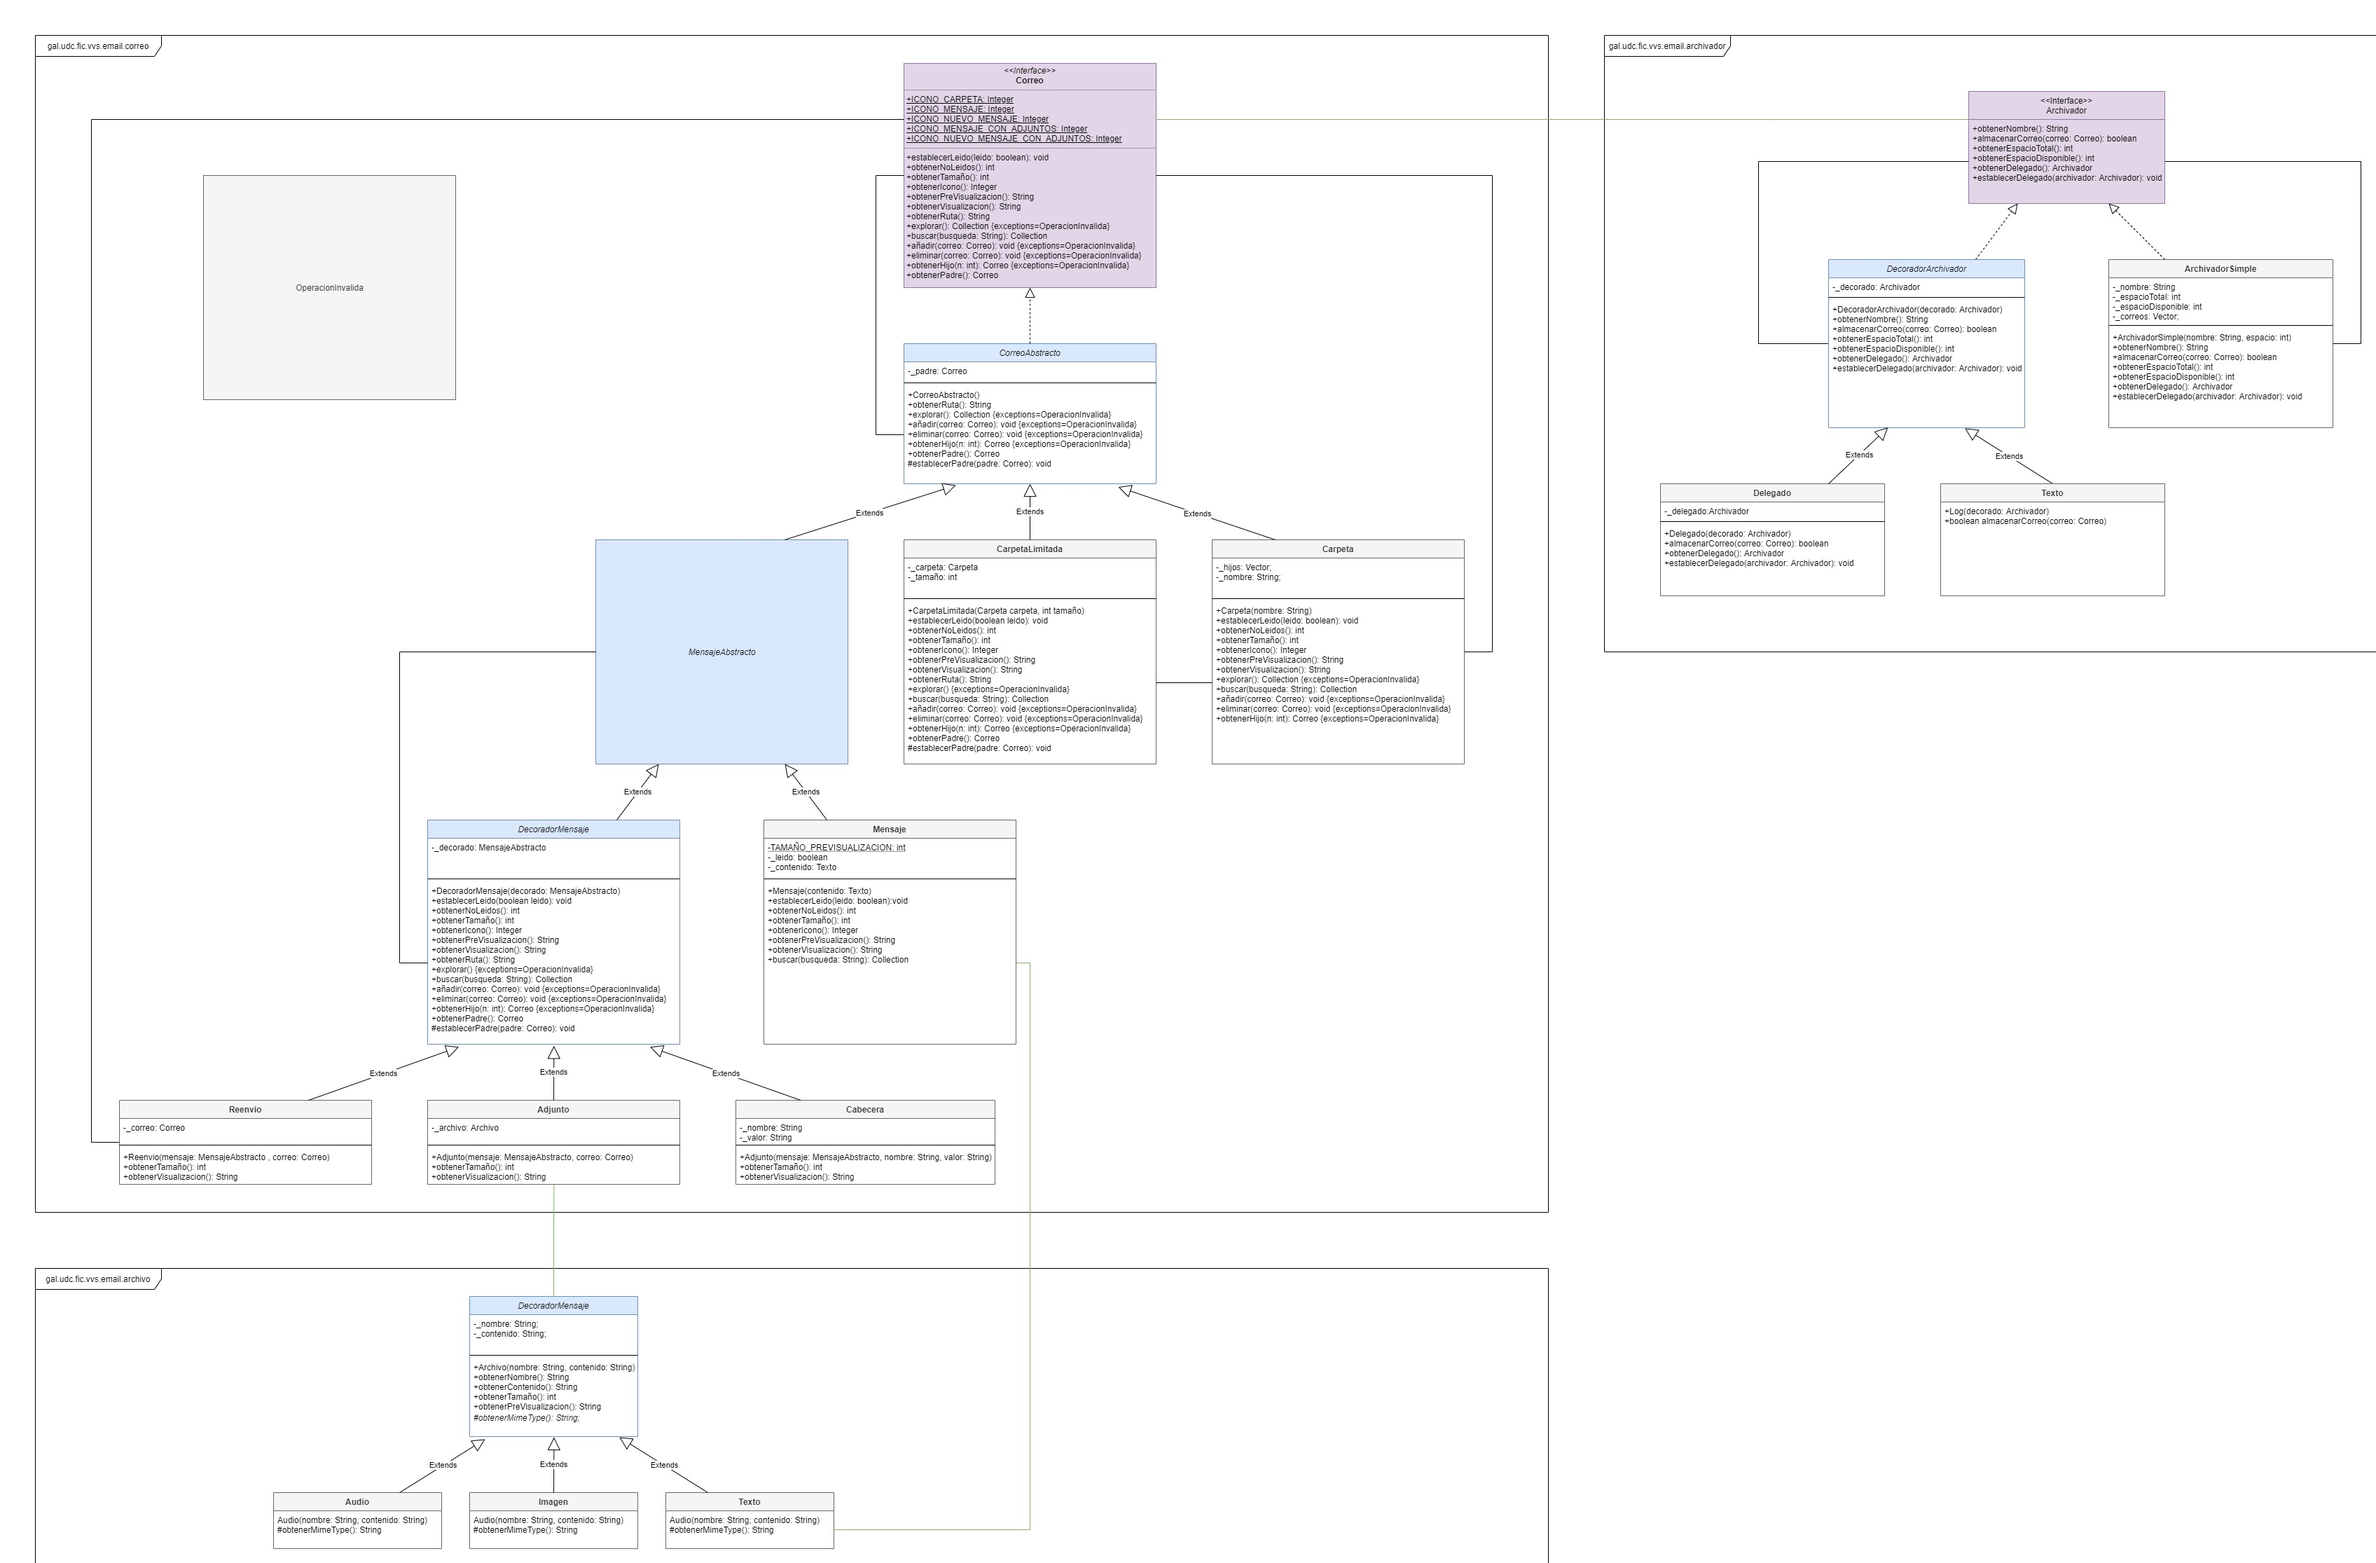
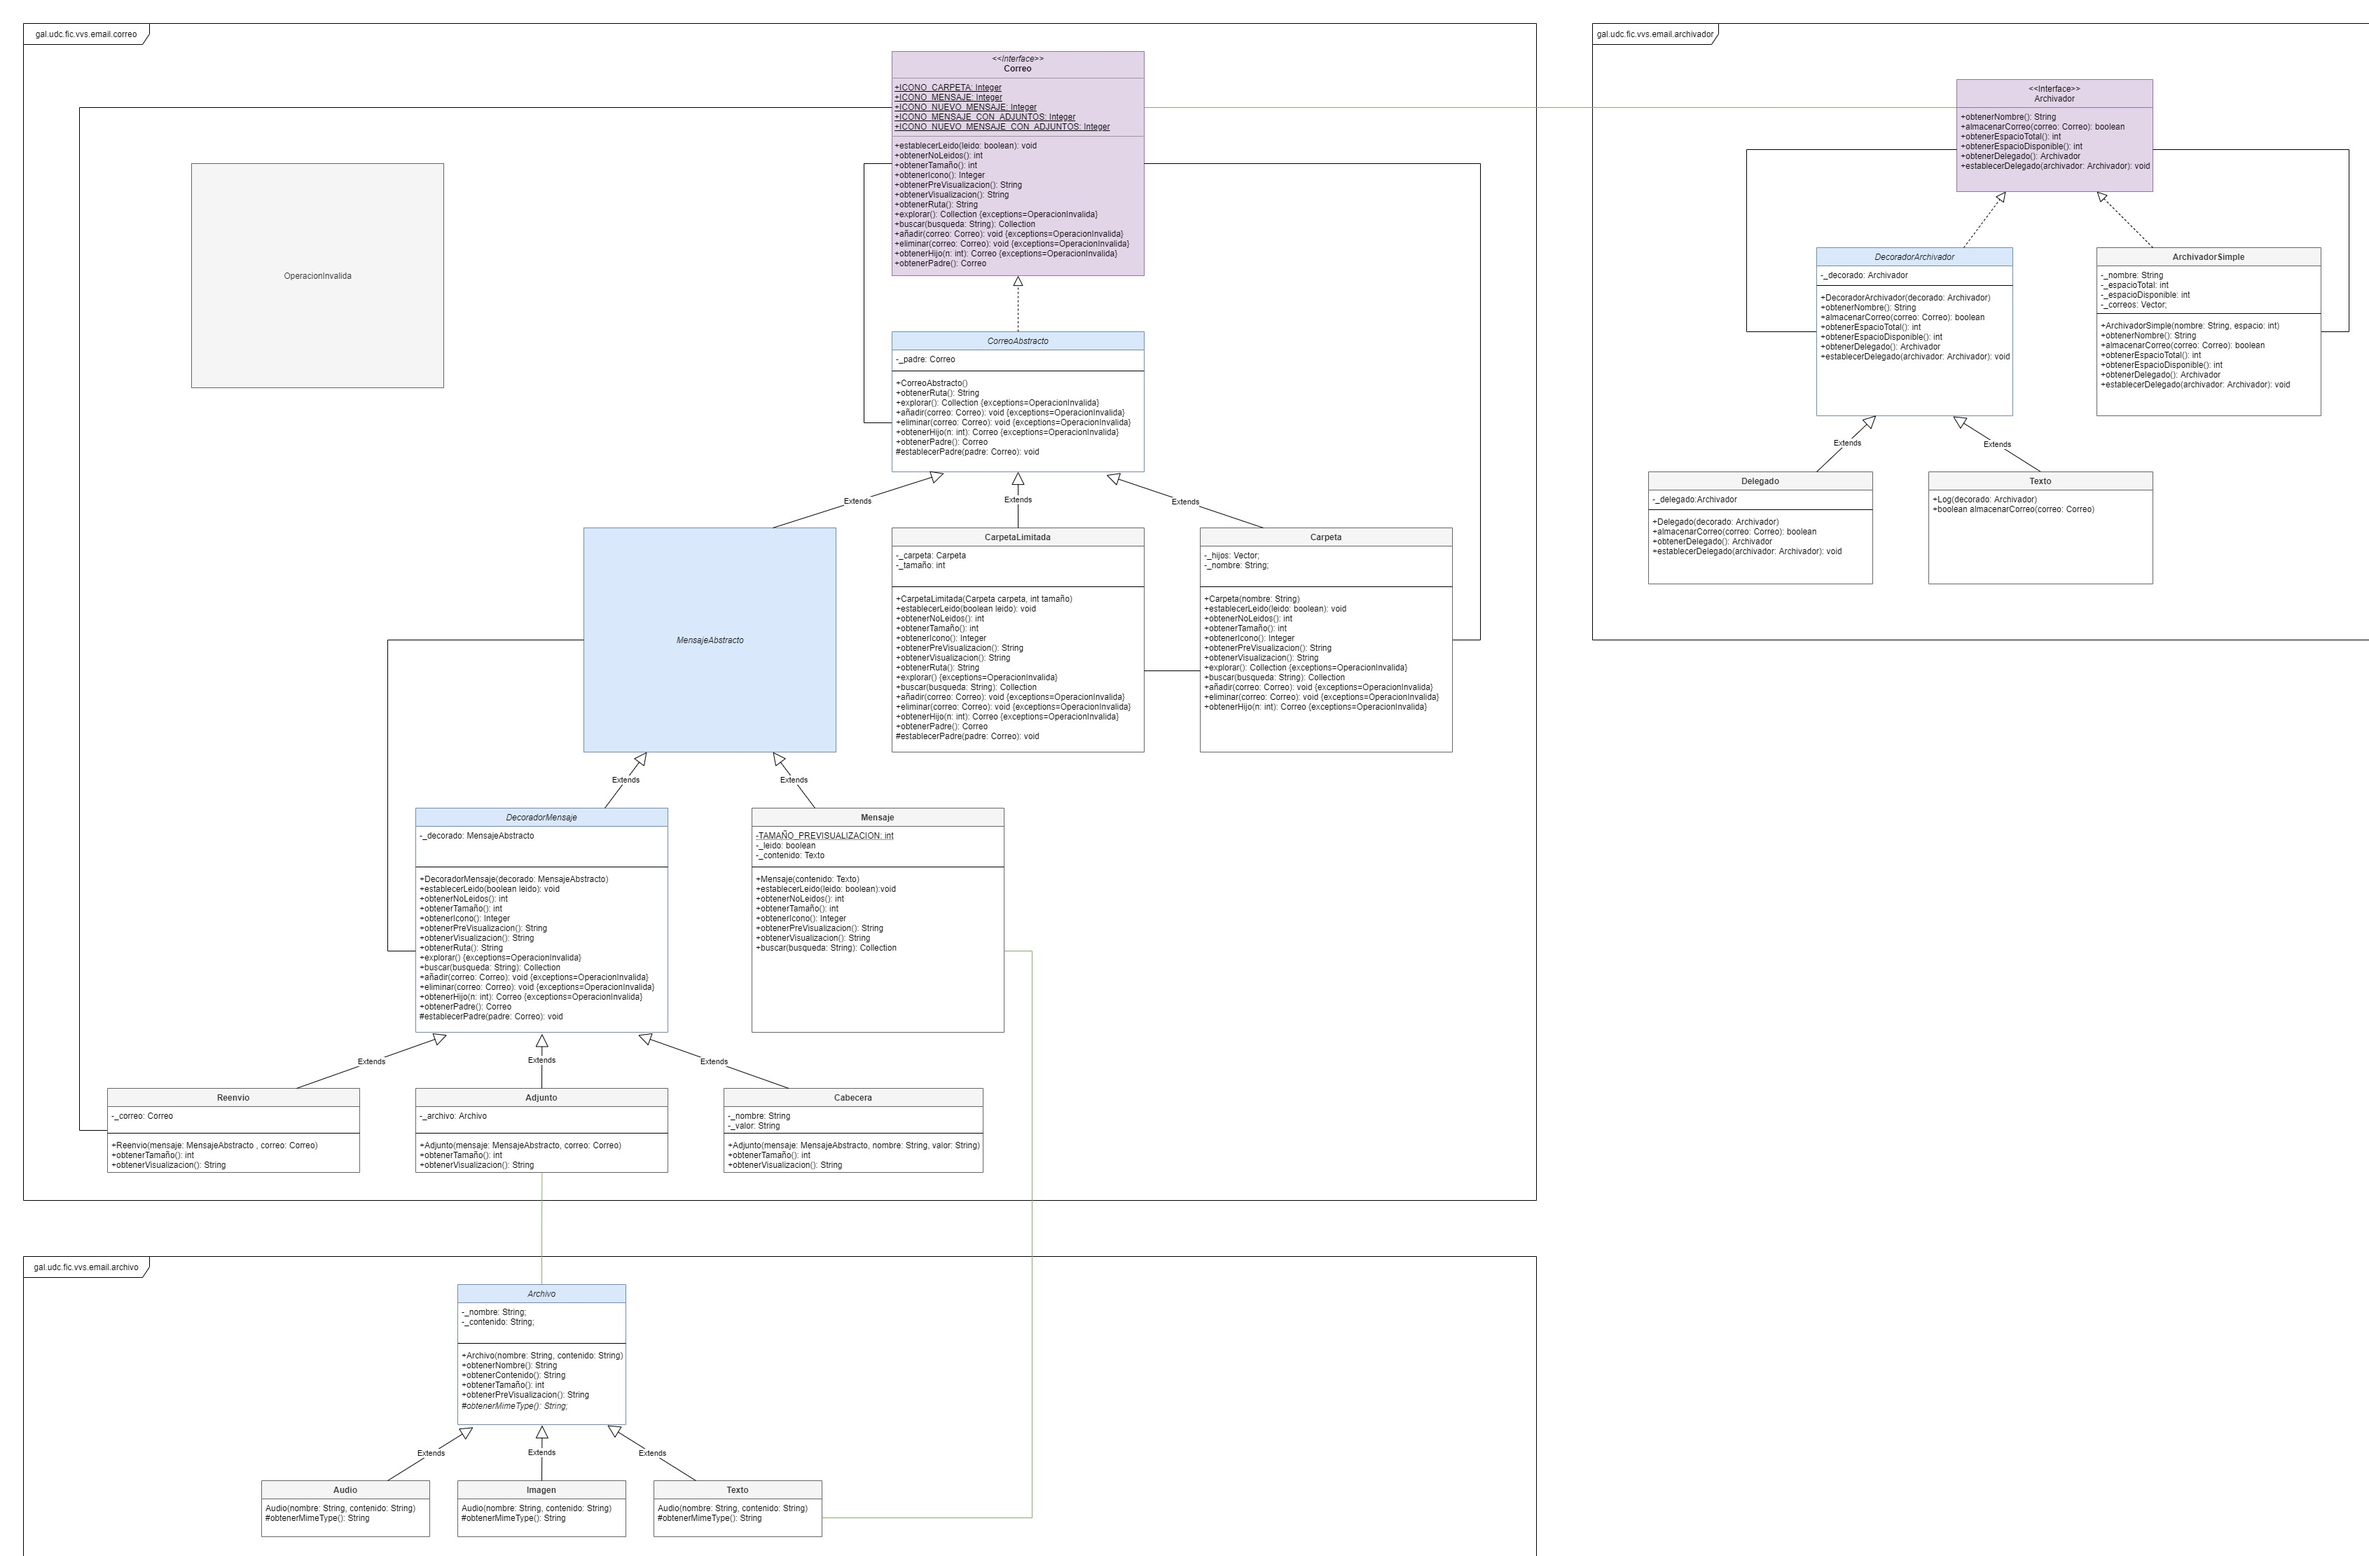
Test para reenviar archivos tamaño y visualización; Correcion en diagrama de clases

diff --git a/src/test/java/gal/udc/fic/vvs/email/correo/ReenvioTest.java b/src/test/java/gal/udc/fic/vvs/email/correo/ReenvioTest.java
@@ -1,0 +1,38 @@
+package gal.udc.fic.vvs.email.correo;
+
+import static org.junit.Assert.assertEquals;
+
+import org.junit.Test;
+
+import gal.udc.fic.vvs.email.archivo.Texto;
+
+public class ReenvioTest {
+	@Test
+	public void TestReenvioGetVisualization() {
+		Texto text1 = new Texto("First name", "First content");
+		Texto text2 = new Texto("Second name", "second content");
+		Mensaje msg1 = new Mensaje(text1);
+		Mensaje msg2 = new Mensaje(text2);
+		Reenvio header = new Reenvio(msg2, msg1);
+
+		String response = msg2.obtenerVisualizacion() + "\n\n---- Correo reenviado ----\n\n"
+				+ msg1.obtenerVisualizacion() + "\n---- Fin correo reenviado ----";
+
+		assertEquals(response, header.obtenerVisualizacion());
+
+	}
+
+	@Test
+	public void TestCabeceraGetSize() {
+		Texto text1 = new Texto("First name", "First content");
+		Texto text2 = new Texto("Second name", "second content");
+		Mensaje msg1 = new Mensaje(text1);
+		Mensaje msg2 = new Mensaje(text2);
+		Reenvio header = new Reenvio(msg2, msg1);
+
+		int response = msg1.obtenerTamaño() + msg2.obtenerTamaño();
+
+		assertEquals(response, header.obtenerTamaño());
+	}
+
+}
